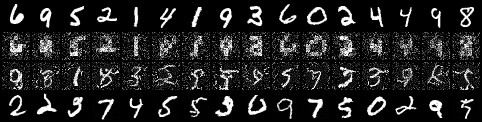
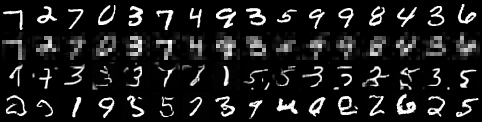
modifying coarse ref gen a little

diff --git a/flow.py b/flow.py
@@ -157,13 +157,19 @@ def frs(model, xr, rs=10, fs=50):
 
 @torch.no_grad()
 def generate_coarse_reference(x, noise_std=0.0, downsample=7):
-    crude = F.interpolate(x, size=(downsample, downsample), mode="area")
-    crude = F.interpolate(crude, size=(28, 28), mode="nearest")
+    coarse = F.interpolate(x, size=(downsample, downsample), mode="area")
+    coarse = F.interpolate(coarse, size=(28, 28), mode="nearest")
 
     # Add noise
-    crude = crude + noise_std * torch.randn_like(crude)
+    # crude = crude + noise_std * torch.randn_like(crude)
+    # lowfreq_noise_std = 0.15
+    # if lowfreq_noise_std > 0:
+    #     n = torch.randn(x.shape[0], x.shape[1], 7, 7, device=x.device)
+    #     n = F.interpolate(n, size=(28, 28), mode="bilinear", align_corners=False)
+    #     coarse = coarse + lowfreq_noise_std * n
 
-    return crude.clamp(-1, 1)
+
+    return coarse.clamp(-1, 1)
 
 if __name__ == "__main__":
     parser = argparse.ArgumentParser()
@@ -241,7 +247,7 @@ if __name__ == "__main__":
         x_frs = frs(
             model,
             x_ref,
-            rs=10,
+            rs=5,
             fs=50,
         )
 